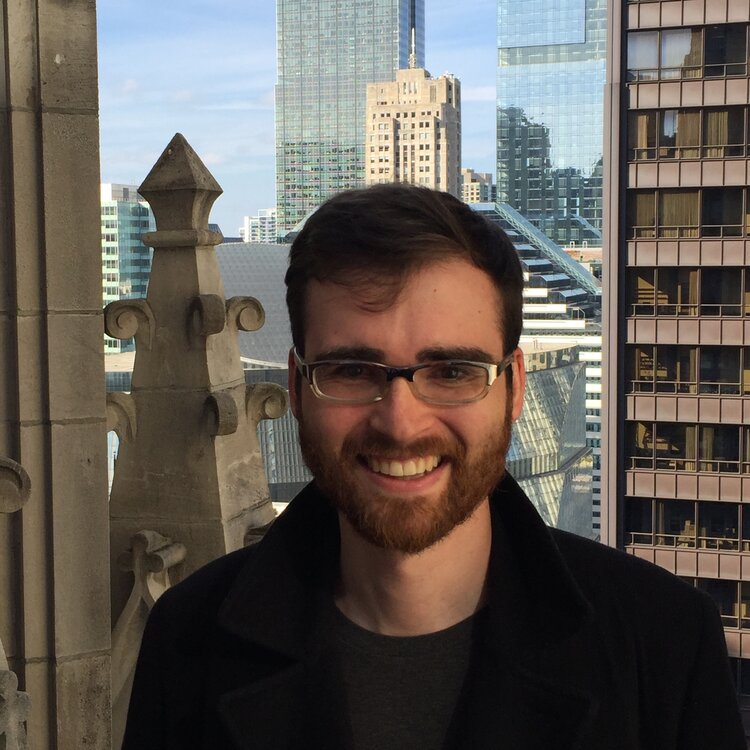
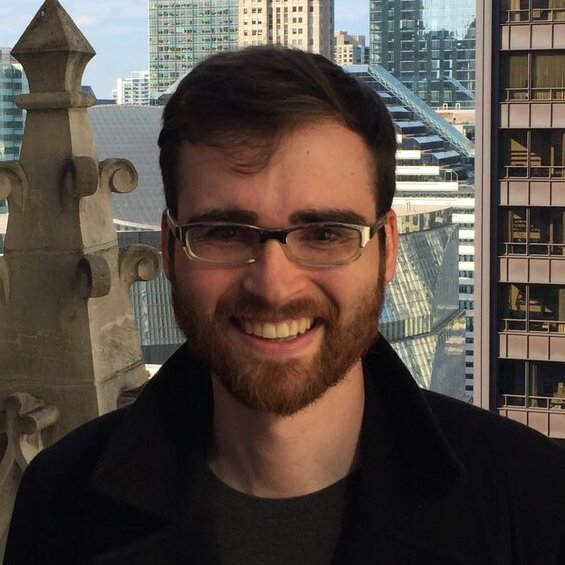
potraits fixed

diff --git a/src/pages/index.js b/src/pages/index.js
@@ -217,7 +217,7 @@ componentWillUnmount() {
                 </Tile>
               </div>
               <div className="pad-middle pad-tile profile-tile">
-                <Tile source="/assets/images/Sam_King.jpg"
+                <Tile source="/assets/images/Sam_King.jpeg"
                 header="Sam King"
                 size={220}
                 borderRadius="50%">
